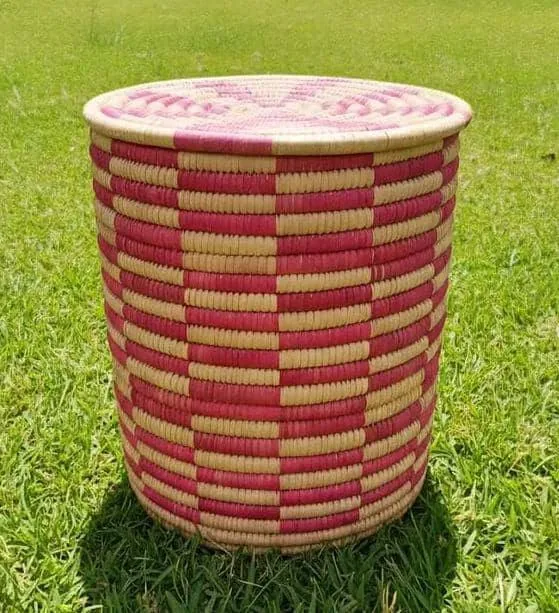
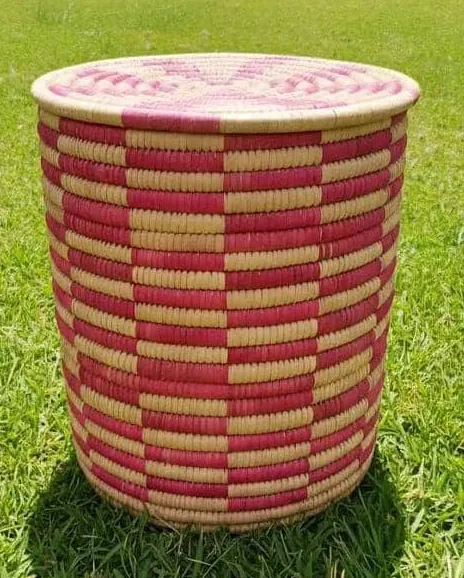
polish: art-first framing for the gallery photograph, and a mobile pass
The gallery section was the weak point. Its portrait figure left a tall column
of dead green beside the copy at desktop width, which is the "rectangular"
problem. The photograph is now cropped to landscape — keeping the wall pieces,
the starburst plates and all three shelves of coiled plates — and sits in a
dedicated two-column layout that balances against the text.

The section is also rebuilt around what customers actually do with the work.
It now leads on the point the photograph makes: a coiled plate is a wall piece,
a lidded hamper is a floor sculpture. That reframes the craft as art rather
than storage, and connects the colour work to why design training is in the
model at all. The craft section's standfirst says the same.

Mobile:
- craft gallery becomes a two-up tile grid on a shared ratio, with the opening
  and closing pieces full width. The ragged single column left most of a phone
  screen empty.
- tile captions drop their index below 780px, where it forced the label onto a
  third line.
- figure captions wrap instead of crushing onto one line.

Also: the checkerboard basket and the conical pair are cropped tighter, the
sixth craft piece is balanced against the row above instead of orphaned left,
and the footer link gets the 44px target height it was missing.

One copy line claimed buyers "build rooms around" the work. The photograph does
not show that, so it now says only what it does show.
[…]

diff --git a/index.html b/index.html
@@ -697,8 +697,9 @@
       position: absolute;
       inset: auto 0 0;
       display: flex;
+      flex-wrap: wrap;
       justify-content: space-between;
-      gap: 12px;
+      gap: 2px 12px;
       padding: 10px 12px;
       background: linear-gradient(0deg, rgba(15, 26, 23, .88), rgba(15, 26, 23, 0));
       color: var(--cream);
@@ -709,7 +710,43 @@
     .shot--c { grid-column: 1 / 5; margin-top: 3vw; align-self: start; }
     .shot--d { grid-column: 5 / 10; margin-top: 3vw; align-self: start; }
     .shot--e { grid-column: 10 / 13; margin-top: 3vw; align-self: start; }
-    .shot--f { grid-column: 1 / 7; margin-top: 3vw; align-self: start; }
+    .shot--f { grid-column: 8 / 13; margin-top: 3vw; align-self: start; }
+
+    /* where the work goes — landscape figure, copy alongside */
+
+    .placement {
+      display: grid;
+      grid-template-columns: 1.18fr .82fr;
+      align-items: start;
+      gap: clamp(28px, 4vw, 64px);
+      margin-top: clamp(40px, 5vw, 72px);
+    }
+
+    .placement__figure { margin: 0; }
+
+    .placement__figure img {
+      display: block;
+      width: 100%;
+      height: auto;
+    }
+
+    .placement__figure figcaption {
+      display: flex;
+      flex-wrap: wrap;
+      justify-content: space-between;
+      gap: 2px 16px;
+      padding-top: 10px;
+      color: rgba(244, 241, 232, .62);
+    }
+
+    .placement__copy { color: rgba(244, 241, 232, .9); }
+
+    .placement__lead {
+      font-size: clamp(19px, 1.75vw, 26px);
+      font-weight: 500;
+      line-height: 1.26;
+      letter-spacing: -.03em;
+    }
 
     /* pitch video */
 
@@ -881,10 +918,21 @@
 
     .site-footer p { margin: 0; max-width: 54rem; }
 
+    .site-footer a {
+      display: inline-flex;
+      align-items: center;
+      min-height: 44px;
+      text-underline-offset: 4px;
+      transition: color 200ms ease;
+    }
+
+    .site-footer a:hover { color: var(--gold); }
+
     /* ---------- mobile ---------- */
 
     @media (max-width: 880px) {
       .story { grid-template-columns: 1fr; }
+      .placement { grid-template-columns: 1fr; }
       .figures { grid-template-columns: repeat(2, minmax(0, 1fr)); }
       .people { grid-template-columns: repeat(2, minmax(0, 1fr)); }
       .pitch { grid-template-columns: 1fr; }
@@ -968,13 +1016,18 @@
       .commitments { grid-template-columns: 1fr; }
       .figures { grid-template-columns: 1fr; }
 
-      .craft { grid-template-columns: repeat(6, 1fr); }
-      .shot--a { grid-column: 1 / 7; }
-      .shot--b { grid-column: 1 / 5; margin-top: 4vw; }
-      .shot--c { grid-column: 1 / 5; margin-top: 4vw; }
-      .shot--d { grid-column: 1 / 7; margin-top: 4vw; }
-      .shot--e { grid-column: 1 / 5; margin-top: 4vw; }
-      .shot--f { grid-column: 1 / 7; margin-top: 4vw; }
+      .craft { grid-template-columns: repeat(2, minmax(0, 1fr)); gap: 10px; }
+      .shot--a, .shot--b, .shot--c,
+      .shot--d, .shot--e, .shot--f { grid-column: auto; margin-top: 0; }
+      .shot--a, .shot--f { grid-column: 1 / 3; }
+
+      /* one ratio per row so paired tiles line up instead of running ragged */
+      .craft .shot img { width: 100%; height: auto; aspect-ratio: 3 / 4; object-fit: cover; }
+      .shot--a img, .shot--f img { aspect-ratio: 4 / 3; }
+      .shot figcaption { padding: 8px 10px; }
+      /* the index reads as a contact-sheet cue on desktop; on a paired phone
+         tile it only forces the label onto a third line */
+      .craft .shot figcaption span:last-child { display: none; }
 
       .makers { grid-template-columns: 1fr 1fr; }
       .makers figure:last-child { grid-column: 1 / 3; }
@@ -1220,7 +1273,7 @@
             <p class="band__label micro">Craftsmanship</p>
             <h2 class="band__title" id="craft-title">Made one coil at a time</h2>
           </div>
-          <p class="band__aside">Lidded hampers, serving and wall plates, conical storage baskets and woven hats — coiled by hand, checked by the cooperative before they ship.</p>
+          <p class="band__aside">Lidded hampers, wall and serving plates, conical storage baskets and woven hats — coiled by hand, dyed by hand, and made to be displayed as much as used.</p>
         </div>
         <hr class="stitch-rule">
 
@@ -1246,7 +1299,7 @@
             <figcaption class="micro"><span>Coiling by hand</span><span>05</span></figcaption>
           </figure>
           <figure class="shot shot--f">
-            <img src="img/product-checkerboard.webp" alt="A lidded coiled basket worked in a rose and natural checkerboard pattern, standing on grass" width="559" height="613" loading="lazy" decoding="async">
+            <img src="img/product-checkerboard.webp" alt="A lidded coiled basket worked in a rose and natural checkerboard pattern, standing on grass" width="464" height="578" loading="lazy" decoding="async">
             <figcaption class="micro"><span>Lidded basket — dyed checkerboard</span><span>06</span></figcaption>
           </figure>
         </div>
@@ -1256,24 +1309,25 @@
       <section class="band band--forest" id="placement" aria-labelledby="placement-title">
         <div class="band__head">
           <div>
-            <p class="band__label micro">Where the work goes</p>
-            <h2 class="band__title" id="placement-title">Onto the shelf</h2>
+            <p class="band__label micro">How people live with it</p>
+            <h2 class="band__title" id="placement-title">Art, not just storage</h2>
           </div>
           <p class="band__aside">Cooperative work on display in an art gallery in Malawi.</p>
         </div>
         <hr class="stitch-rule" style="--stitch-line: rgba(244,241,232,.24); --stitch-tick: var(--gold);">
 
-        <div class="story">
-          <div class="prose" style="color: rgba(244,241,232,.9);">
-            <p>The cooperative sells directly — online to individual buyers, and wholesale to galleries, hotels and lodges, and corporate gift buyers.</p>
-            <p>That route is the whole point. When a basket travels from the weaver to the cooperative to the shelf, with quality control and packaging handled in between, the margin that used to disappear into a chain of middlemen stays with the woman who coiled it.</p>
-            <p>Coiled plates, wall pieces and floor mats, shown the way they are meant to be seen.</p>
-          </div>
-
-          <figure class="story__figure">
-            <img src="img/gallery-display.webp" alt="An art gallery interior in Malawi with coiled woven plates and wall pieces displayed on shelves against an orange wall, beside a bookcase and woven floor mats" width="720" height="901" loading="lazy" decoding="async">
+        <div class="placement">
+          <figure class="placement__figure">
+            <img src="img/gallery-display.webp" alt="An art gallery interior in Malawi: coiled woven plates arranged on shelves against an orange wall, large woven wall pieces on the white wall, beside a bookcase" width="720" height="480" loading="lazy" decoding="async">
             <figcaption class="micro"><span>On display — art gallery, Malawi</span><span>Cooperative work</span></figcaption>
           </figure>
+
+          <div class="prose placement__copy">
+            <p class="placement__lead">A coiled plate is a wall piece. A lidded hamper is a floor sculpture that happens to hold laundry.</p>
+            <p>The work is shown as art: on display in an art gallery in Malawi, hung on the wall and set out on shelves rather than stacked in a market pile.</p>
+            <p>It is also why colour matters, and why design training sits at the centre of the model. Dyed pattern is what carries a coiled basket from a market stall to a gallery wall.</p>
+            <p>Sold direct: online to individual buyers, and wholesale to galleries, hotels and lodges, and corporate gift buyers — with no chain of middlemen taking the margin that belongs to the weaver.</p>
+          </div>
         </div>
       </section>
 

diff --git a/prep_images.py b/prep_images.py
@@ -18,11 +18,12 @@ JOBS = [
     ("weaver-coiling", "IMG_9230.JPG", None, 900),
     ("weaver-workshop", "IMG_9231.JPG", None, 1400),
     # product
-    ("product-lidded-pair", "IMG_9235.JPG", None, 1000),
-    # gallery placement — cooperative work on display in a Malawian art gallery
-    ("gallery-display", "LYDIA-gallery-display.jpg", None, 1100),
+    ("product-lidded-pair", "IMG_9235.JPG", (0, 96, 540, 720), 1000),
+    # gallery placement — cooperative work on display in a Malawian art gallery.
+    # Cropped to landscape: the portrait original left a dead column beside the copy.
+    ("gallery-display", "LYDIA-gallery-display.jpg", (0, 110, 720, 590), 1100),
     # product
-    ("product-checkerboard", "LYDIA-basket-pink-checkerboard.jpg", None, 900),
+    ("product-checkerboard", "LYDIA-basket-pink-checkerboard.jpg", (52, 22, 516, 600), 900),
     # team
     ("team-olivia", "IMG_9240.JPG", None, 1000),
     ("team-innocent", "IMG_9239.JPG", None, 900),

diff --git a/README.md b/README.md
@@ -18,7 +18,7 @@ index.html            the whole site (no build step, no dependencies)
 frames/desktop/       104 WebP frames, 1200x675   — 10.1 MB
 frames/mobile/        104 WebP frames, 680x383    —  4.1 MB
 frames/manifest.json  how the sequence was built
-img/                  12 photographs, web-optimised — 2.3 MB
+img/                  12 photographs, web-optimised — 2.2 MB
 ```
 
 ## Design thesis
@@ -71,7 +71,7 @@ Everything factual is traceable to Lydia's own materials. Nothing was invented.
 | Weaver → cooperative → QC & packaging → client; hotels, lodges, corporate gift partners | Pitch deck "Traction" |
 | Team names, roles and credentials | Pitch deck "The Team" |
 | Phone, email, P.O. Box | Lydia's WhatsApp messages |
-| Cooperative work on display in a Malawian art gallery ("Onto the shelf") | Photograph sent by Lydia, 19 Sep 2026 |
+| Cooperative work on display in a Malawian art gallery ("Art, not just storage") | Photograph sent by Lydia, 19 Sep 2026 |
 
 Deliberately **left off**: revenue model, per-basket costs, margin, 3-year
 projections, funding allocation and ROI. Those are investor-deck material.
@@ -106,6 +106,18 @@ read considerably better to wholesale buyers than a personal Gmail.
 - The people in the garden photographs are captioned as cooperative weavers
   rather than named, because the source material does not identify them.
 
+## Note on the craft gallery
+
+`img/gallery-display.webp` is cropped to landscape on purpose. The portrait
+original left a tall column of dead green beside the copy at desktop width. The
+crop keeps the woven wall pieces, the starburst plates and all three shelves of
+coiled plates — the part that carries the "this is art" argument.
+
+On phones the craft gallery is a two-up tile grid on a shared aspect ratio
+(`3/4`, with the opening and closing pieces full width at `4/3`). The earlier
+ragged single column left most of the screen empty. Tile captions drop their
+index number below 780px, where it only pushed the label onto a third line.
+
 ## Regenerating the sequence
 
 `render_seq.py` (kept alongside this README) rebuilds `frames/`. Edit the `SHOTS`
@@ -127,6 +139,8 @@ between the centres, so each chapter gets its own shot.
 - Mobile 375x812 and 320x720: no horizontal overflow, film sits in its letterboxed
   aperture, copy below it, team grid two-up at both widths.
 - No console errors; all 208 frames, 12 photographs and the manifest return 200.
+- Audited at 1440, 390 and 320: no horizontal overflow, no broken images, no image
+  displayed above 1.35x its natural width, every link at least 44px tall.
 - One `<h1>`, ordered headings, every image has alt text, the iframe is titled,
   the skip link is visible on focus, touch targets are at least 44px.
 - `prefers-reduced-motion` renders a single poster frame with the hero chapter and
